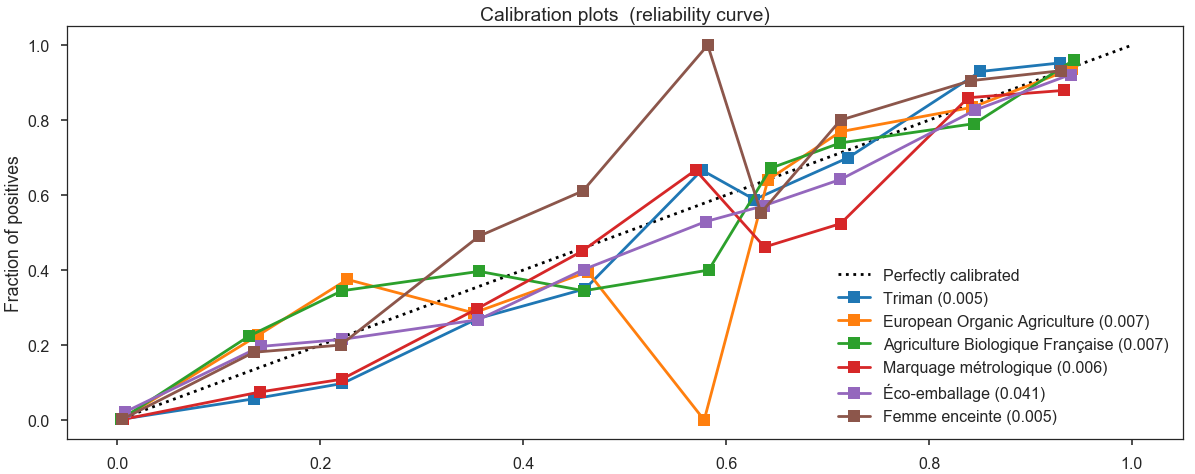
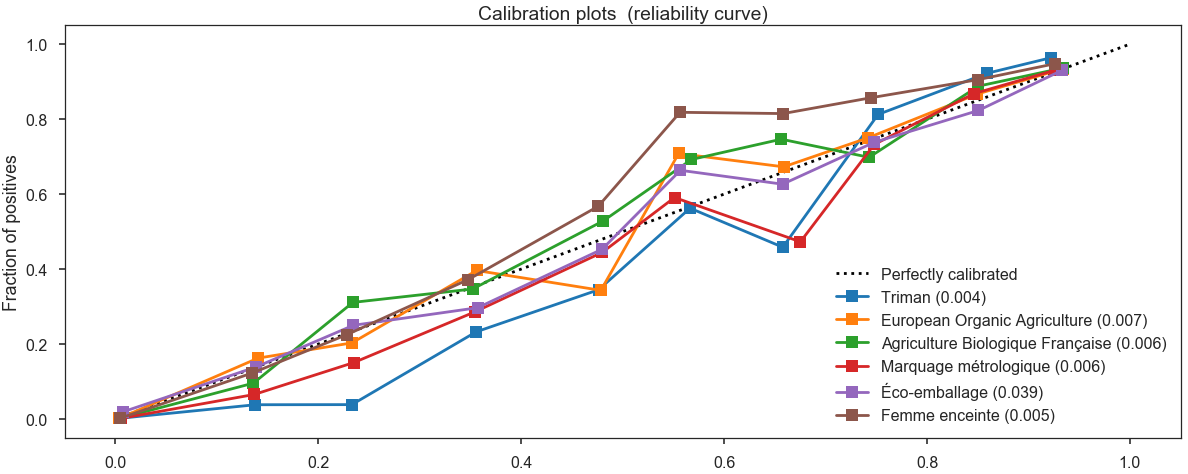
calibration

diff --git a/p_machine_learning.tex b/p_machine_learning.tex
@@ -8,7 +8,7 @@ When dealing with natural language, one of the most important common denominator
 
 In this section, we will quickly describe Mikolov's Word2Vec models (Continuous Bag of Word, and Skip-Gram), that proposed a new way to build word embeddings based on words coocurrence in a context window.
 
-Then we will explain in more detail recent work from Facebook, that proposes new models based on Mikolov's work, allowing the use of sub-word information, and proposing a novel way to compute classification tasks while learning embeddings.
+Then we will present in more details a recent work from Facebook, that proposes new models based on Mikolov's work, proposing a novel way to compute classification tasks while learning embeddings.
 
 \subsection{Probability of sequence of tokens}
 
@@ -57,7 +57,7 @@ With:
 		\vdots\\
 		0
 	\end{bmatrix} \\
-	\mathbf{\bar x_t} &= \frac{\mathbf{x}_{V(t-c)} + \mathbf{x}_{V(t-c+1)} ... + \mathbf{x}_{V(t+c)}}{|C_t^{(c)}|}
+	\mathbf{\bar x_t} &= \frac{\mathbf{x}_{V(w_{t-c})} + \mathbf{x}_{V(w_{t-c+1})} ... + \mathbf{x}_{V(w_{t+c})}}{|C_t^{(c)}|}
 \end{align}
 
 Taking our corpus \say{\textit{To classify you have to learn.}}:
@@ -90,10 +90,10 @@ Taking our corpus \say{\textit{To classify you have to learn.}}:
 
 \subsection{Word2Vec models}
 
-Word2vec consists in either of two model architectures to produce a representation of words: \textbf{continuous bag-of-words} (CBOW) or \textbf{skip-gram}. 
+Word2vec consists in either one of two model architectures to produce a representation of words: \textbf{continuous bag-of-words} (CBOW) or \textbf{skip-gram}. 
 
 In the continuous bag-of-words architecture, the model predicts the current word from a window of surrounding context words. The order of context words does not influence prediction (bag-of-words assumption). In the continuous skip-gram architecture, the model uses the current word to predict the surrounding window of context words. 
-The skip-gram architecture weighs nearby context words more heavily than more distant context words.
+The skip-gram architecture weighs nearby context words more than distant context words.
 
 Both models can be trained from an unlabeled large corpus of text and rely on the same trick: transform unlabeled data into a labeled dataset for supervised learning to unveil hidden dependencies between words.
 
@@ -258,11 +258,11 @@ Matrices A and B are updated using gradient descent and gradient retro-propagati
 
 \subsubsection{Using CBOW embeddings for classification}
 
-Using CBOW algorithm would provide you this A matrix, which is basically a lookup table in which you can extract the representation of any word of your vocabulary in your embedding space (of size $dim <<< |V|$).
+Using CBOW algorithm would provide you this A matrix, which is basically a lookup table in which you can extract the dense representation of any word of your vocabulary in your embedding space (of size $dim <<< |V|$).
 
 Word2Vec treats each word in corpus like an atomic entity and generates a vector for each word.
 
-Transforming a text input in a numerical vector is then possible, and your numerical vector could then be used as input for any classification algorigthm to perform classification tasks.
+Transforming a text input in a dense numerical vector with semantic information is then possible, and your numerical vector could then be used as input for any classification algorigthm to perform classification tasks.
 
 \subsection{Fasttext}
 
@@ -380,7 +380,7 @@ The model is very similar to continuous bag of words model, except that instead 
 \end{tikzpicture}
 Note: 
 \begin{itemize}
-	\item for readibility just 7 words of the input features are considered.
+	\item for readibility only 7 words of the input features are considered.
 	\item fasttext first merge all features as one corpus to build vocabulary ($\rightarrow$ size of matrix A)
 	\item in practice, dimension of the hidden layer is between 50 and 300
 	\item input matrix A embeddings are specialized for this classification task and may not behave well for another classification task
@@ -407,7 +407,7 @@ Each word can be considered as a set of character ngrams. In Fasttext, a word ve
 \end{multicols}
 Note: this behavious is controlled through hyperparameters controlling smallest ngram size ([minn]) and largest ngram size ([maxn]). For performance and memory size reasons, another hyperparameter ([bucket]) controls the maximum total number of tokens (word tokens + subword tokens).
 
-This provide the following advantages:
+This provides the following advantages:
 \begin{itemize}
 	\item Generate better word embeddings for rare words (even if words are rare their character n grams are still shared with other words - hence the embeddings can still be good). In word2vec a rare word (e.g. 10 occurrences) has fewer neighbors to be tugged by, in comparison to a word that occurs 100 times - the latter has more neighbor context words and hence is tugged more often resulting in better word vectors.
 	\item Out of vocabulary words - they can construct the vector for a word from its character n grams even if word doesn't appear in training corpus. The choice of hyper parameters controlling the minimum and maximum n-gram sizes has to be chosen.
@@ -415,7 +415,7 @@ This provide the following advantages:
 
 Concretely, the use of subword information will only impact:
 \begin{itemize}
-	\item how is built the vocabulary. It will not only contain words of the training corpus, but also all ngrams of these words. The vocabulary will thus be much bigger, but with shared properties between different words.
+	\item how the vocabulary is built. It will not only contain words of the training corpus, but also all ngrams of these words. The vocabulary will thus be much bigger, but with shared properties between different words.
 	\item how features are encoded in this vocabulary: 'Do you want this apple' will not be encoded as the average of 5 one hot vectors \{do, you, want, this, apple\}, but as the average of one hot vectors of all tokens contained in the sentence \{<do>, <you, you>, <wa, wan, ant, nt> ...\}.
 \end{itemize}
 
@@ -433,7 +433,7 @@ In this section, we will first make a quick review of the major algorithms and s
 
 \subsection{Multilabel metrics}
 
-Suppose $\mathcal{X} = \mathbb{R}^d$ denotes the \textit{d}-dimensional instance space, and  $\mathcal{Y} = \{y_1, y_2, \dots, y_K \}$ the label space with $K$ possible class labels.
+Suppose $\mathcal{X} = \mathbb{R}^d$ denotes the \textit{d}-dimensional feature space, and  $\mathcal{Y} = \{y_1, y_2, \dots, y_K \}$ the label space with $K$ possible class labels.
 
 Let's denote $\mathcal{D} = \{(\mathbf{x}_i, Y_i) | 1 \leq i \leq n\}$ our learning dataset. For each multi-label example $(\mathbf{x}_i, Y_i)$, $Y_i \subseteq \mathcal{Y}$ is the set of labels for $\mathbf{x}_i$.
 
@@ -442,7 +442,7 @@ Let's denote $\mathcal{D} = \{(\mathbf{x}_i, Y_i) | 1 \leq i \leq n\}$ our learn
 \begin{itemize}
 	\item \textbf{Number of classes}: $|\mathcal{Y}| = K$.
 	\item \textbf{Label cardinality}: $\frac{1}{n}\sum_{i=1}^n |Y_i|$ (average number of labels per sample).
-	\item \textbf{Label density}: $\frac{1}{n \times |\mathcal{Y}|}\sum_{i=1}^n |Y_i|$ (average number of labels per example normalized by number of classes).
+	\item \textbf{Label density}: $\frac{1}{n \times |\mathcal{Y}|}\sum_{i=1}^n |Y_i|$ (average number of labels per sample normalized by number of classes).
 	\item \textbf{Label diversity}: $|\{Y | \exists \mathbf{x}:(\mathbf{x}, Y) \in \mathcal{D}\}|$ (the number of distinct label sets in learning set).
 \end{itemize}
 
@@ -524,8 +524,8 @@ Some adaptative algorithm exist for lazy learning techniques (kNN), decision tre
 This category of algorithms tackle multi-label learning problem by transforming it into other well-established learning scenarios (binary or multiclass classification scenarios). 
 Representative algorithms include:
 \begin{itemize}
- \item Binary Relevance: which transform the task of multi-label learning into the task of binary classification (first-order)
- \item Classifier Chains: which transform the task of multi-label learning into the task of binary classification (high-order)
+ \item Binary Relevance: which transforms the task of multi-label learning into the task of binary classification (first-order)
+ \item Classifier Chains: which transforms the task of multi-label learning into the task of binary classification (high-order)
  \item Calibrated Label Ranking: which transforms the task of multi-label learning into the task of label ranking (second-order)
  \item Random k-labelsets which transforms the task of multi-label learning into the task of multi-class classification (high-order)
 \end{itemize}
@@ -538,22 +538,9 @@ Representative algorithms include:
 \end{figure}
 
 
-\subsection{Considered approaches}
 
-In our case, the possible approaches were:
-\begin{itemize}
-	\item 'Word Embedding / Multi-label Classification':
-	\begin{itemize}
-		\item first learn general purpose word embeddings
-		\item and then apply any multi-label classifier strategy
-	\end{itemize}
-	\item 'Fasttext / Problem Transform approach'
-	\begin{itemize}
-		\item use fasttext as binary/multiclass classifier
-		\item as input for a problem transform approach: binary relevance, random-k-labelsets (classifier chains was not adaptable to fasttext)
-	\end{itemize}
-	\item adapt fasttext to support multi-label: learn simultanously embeddings and classifier parameters in multilabel context
-\end{itemize}
+
+\subsection{Multilabel text categorization}
 
 \subsubsection{Project constraints}
 
@@ -565,14 +552,40 @@ Among our objectives were:
 	\item prepare real-time prediction
 \end{itemize}
 
+
+\subsubsection{Considered approaches}
+To perform text multilabel categorization, the possible approaches were:
+\begin{enumerate}
+	\item First compute word embeddings to build dense representation of input, then apply any multi-label classification approach:
+	\begin{itemize}
+		\item Adaptative approach with specific classifiers
+		\item Or Problem Transform approach with any possible classifier
+	\end{itemize}
+	\item Use Fasttext as base classifier in any compatible problem transformation approach:
+	\begin{itemize}
+		\item binary relevance
+		\item random-k labelsets
+		\item (classifier chains were not compatible with fasttext model)
+	\end{itemize}
+	\item Adapt fasttext to support multi-label: learn simultanously embeddings and classifier parameters in multilabel context
+\end{enumerate}
+
+
 Our first experiments with Fasttext encouraged us to try to use it. Reasons for that choice were:
 \begin{itemize}
 	\item subword ability
 	\item encouraging scores
 	\item training speed
+	\item specific embeddings for each classification task
 	\item small RAM consumption
 	\item quality of implementation
 	\item well maintained code
+\end{itemize}
+
+We initially considered using Fasttext as base classifier in problem transform approaches. The scores were very satisfying using binary relevance, yet it appeared that these approaches were too greedy:
+\begin{itemize}
+	\item in terms of computationnal time
+	\item in terms of model size
 \end{itemize}
 
 \subsection{How we adapted Fasttext to multilabel}
@@ -782,22 +795,36 @@ After producing our first predictions, we soon realized that we needed more cont
 	\item on other classes it could be the opposite, a 0.5 score could be right 0.8 of the time on average
 \end{itemize}
 
+In this section we will first present some calibration metrics, a naïve calibration method, and then introduce more commonly adopted strategies we tried.
+
 \textbf{Calibration plot}
 
 Calibration plot is a method that shows us how well the classifier is calibrated \cite{Calibration}: $$x\ axis = true\ probability,\ y\ axis=predicted\ probability$$
 
 True probabilities are calculated for (sub)sets of examples with the same predicted score $P(y=1|X) \in [c-\delta, c+\delta]$: $$ p_{true}^c = \frac{P_{sub}^c}{P_{sub}^c + N_{sub}^c}$$ with $P_{sub}^c, N_{sub}^c$ being the proportion on positives and negative examples in a given subset with predicted probabilities $[c-\delta, c+\delta]$. The calibration plot of a perfectly calibrated classifier will be a diagonal.
 
+\textbf{Calibration Error: Brier Score}
 
+The Brier score is a proper score function that measures the accuracy of probabilistic predictions. The Brier score can be thought of as either a measure of the calibration of a set of probabilistic predictions. More precisely, across all items $i\in{1...N}$ in a set of $N$ predictions, the Brier score measures the mean squared difference between:
+\begin{itemize}
+    \item The predicted probability $\hat{P}(y_i|x_i)$ assigned to the possible outcomes for $x_i$
+    \item The actual outcome $y_i$
+\end{itemize}
+$$\text{Brier Score} = \frac{1}{N} \sum \limits_{i=0}^N (\hat{P}(y_i|x_i) - y_i)^2$$
 
-In this section we will first present a naïve calibration we implemented, and then introduce more commonly adopted strategies.
+Therefore, the lower the Brier score is for a set of predictions, the better the predictions are calibrated. \cite{wiki15, Ya91}
+
+In our case we will consider a \textit{stratified Brier Score} that takes into account class imbalance:
+$$BS^+ = \frac{\sum \limits_{y_i=1} (y_i - \hat{P}(y_i|x_i))^2}{N_{pos}}$$
+$$BS^- = \frac{\sum \limits_{y_i=0} (y_i - \hat{P}(y_i|x_i))^2}{N_{neg}}$$
+
 
 \subsection{Naïve calibration}
 
 \begin{figure}[H]
 \centering
-\includegraphics[scale=0.40]{./images/calibration/islabeledby_calibration_curve.png}
-\caption{Calibration curve: true precision compared to predicted probabilities/scores.}
+\includegraphics[scale=0.37]{./images/calibration/islabeledby_calibration_curve.png}
+\caption{Calibration curve: true precision compared to predicted probabilities/scores on testing-set.}
 \end{figure}
 
 One possible naïve solution would be to build bins of samples around a given score, for instance all scores between 0.40 and 0.50, and estimate the precision of samples in this bin (all prediction whose scores is between 0.4 and 0.5), as the mean precision of that bin on a validation data-set.
@@ -806,8 +833,8 @@ One possible naïve solution would be to build bins of samples around a given sc
 
 Major approaches for performing calibration of probabilistic predictions share the same idea: use obtained classification scores as features in an additional classifier (classifier providing scores). We could cite: 
 \begin{itemize}
-	\item a parametric approach based on Platt’s sigmoid model: basically applying a logistic regression using classification scores as features, and original labels of a validation set as target \cite{Calibration}.
-	\item a non-parametric approach based on isotonic regression: the idea is to fit a piecewise-constant non-decreasing function (stair-step shaped).
+	\item a parametric approach based on Platt’s sigmoid model: basically applying a logistic regression using classification scores as features, and original labels of a validation set as target.
+	\item a non-parametric approach based on isotonic regression: the idea is to fit a piecewise-constant non-decreasing function (stair-step shaped) \cite{Calibration}.
 	\item a 'stacking-style' approach using classification scores as feature, but target are no longer original labels, but the thresholds bipartitioning labels with minimum misclassifications \cite{MultilabelReview}.
 \end{itemize}
 
@@ -818,13 +845,13 @@ In our case we did not discriminate classes while learning isotonic regression t
 \begin{figure}[H]
 \centering
 \includegraphics[scale=0.40]{./images/calibration/calibration_val_before.png}
-\caption{Calibration curve on validation set BEFORE isotonic regression.}
+\caption{Calibration curve on validation set BEFORE isotonic calibration.}
 \end{figure}
 
 \begin{figure}[H]
 \centering
 \includegraphics[scale=0.40]{./images/calibration/calibration_val_after.png}
-\caption{Calibration curve on validation set AFTER isotonic regression.}
+\caption{Calibration curve on validation set AFTER isotonic calibration.}
 \end{figure}
 
 
